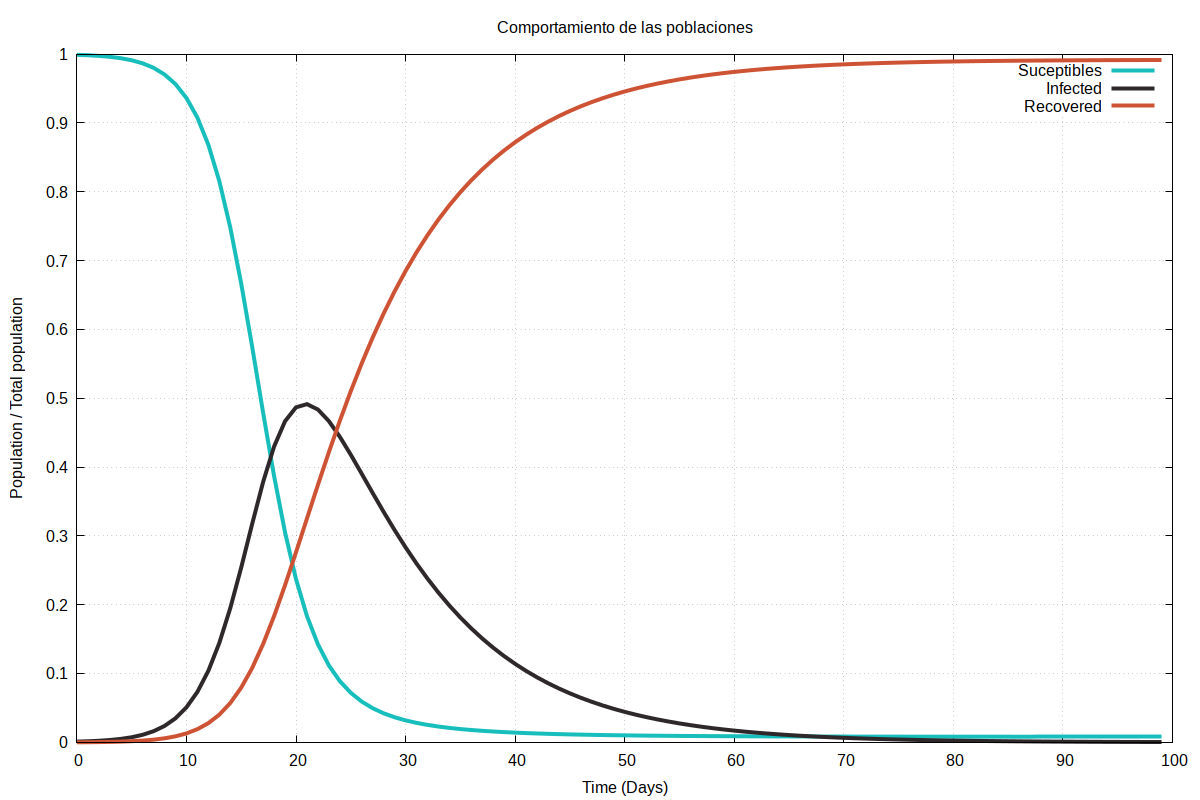
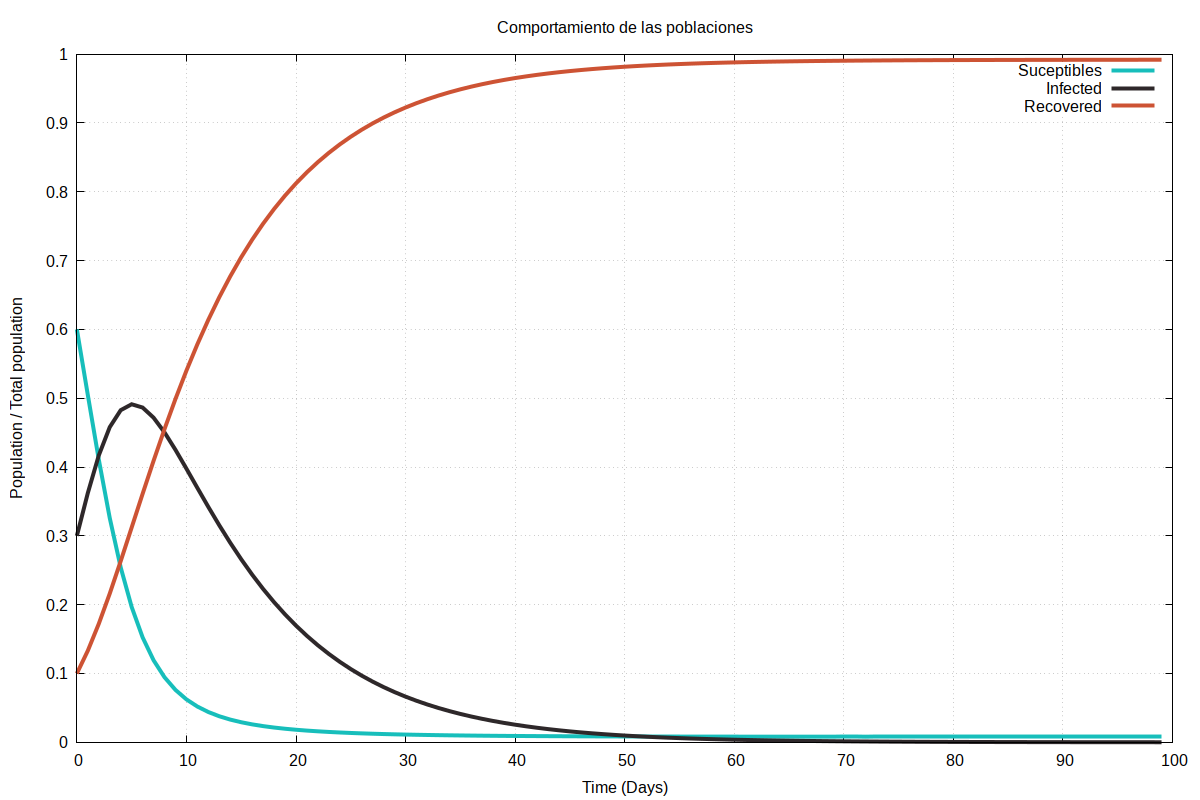
[edit] corregido calculo del numero de pasos :)

diff --git a/prop-enfermedades-app/modules/program/FindMax.cpp b/prop-enfermedades-app/modules/program/FindMax.cpp
@@ -30,3 +30,22 @@ double *Maximum(string name_data, PopulationType p = PopulationType::Infected)
 
     return new double[2] { maximum, day };
 }
+
+double *Maximum(double ** populationValues, PopulationType p = PopulationType::Infected)
+{
+    double maximum;
+    double day;
+    
+    int len = populationValues[2][0];
+
+    for (int i = 0; i < len; i++)
+    {
+        if (populationValues[1][i] > maximum)
+        {
+            maximum = populationValues[1][i];
+            day = populationValues[0][i];
+        }
+    }
+
+    return new double[2] { maximum, day };
+}

diff --git a/prop-enfermedades-app/main.cpp b/prop-enfermedades-app/main.cpp
@@ -42,7 +42,7 @@ int main()
 
     WriteData("data", data, n);
 
-    double *max_suceptibles = Maximum("data", PopulationType::Infected);
+    double *max_suceptibles = Maximum(new double*[3] { data[0], data[2], new double[1] { n * 1.0 } }, PopulationType::Infected);
     cout << max_suceptibles[0] << " " << max_suceptibles[1] << endl;
 
 

diff --git a/prop-enfermedades-app/modules/methods/Runge4.cpp b/prop-enfermedades-app/modules/methods/Runge4.cpp
@@ -44,7 +44,7 @@ double *Runge4::Calc(double t, double dt, double s, double i, double r)
 
 void Runge4::DoMethod(double t, double dt, double s, double i, double r, double tmax)
 {
-    int n = (int)(tmax / dt);
+    int n = (int)((tmax - t) / dt);
     double **result = new double *[4];
 
     for (int i = 0; i < 4; i++)

diff --git a/prop-enfermedades-app/modules/program/program.h b/prop-enfermedades-app/modules/program/program.h
@@ -9,5 +9,6 @@ using namespace std;
 void WriteData(string, double **, int);
 double **ReadData(string, PopulationType);
 double *Maximum(string a, PopulationType b);
+double *Maximum(double **, PopulationType b);
 
 #endif
